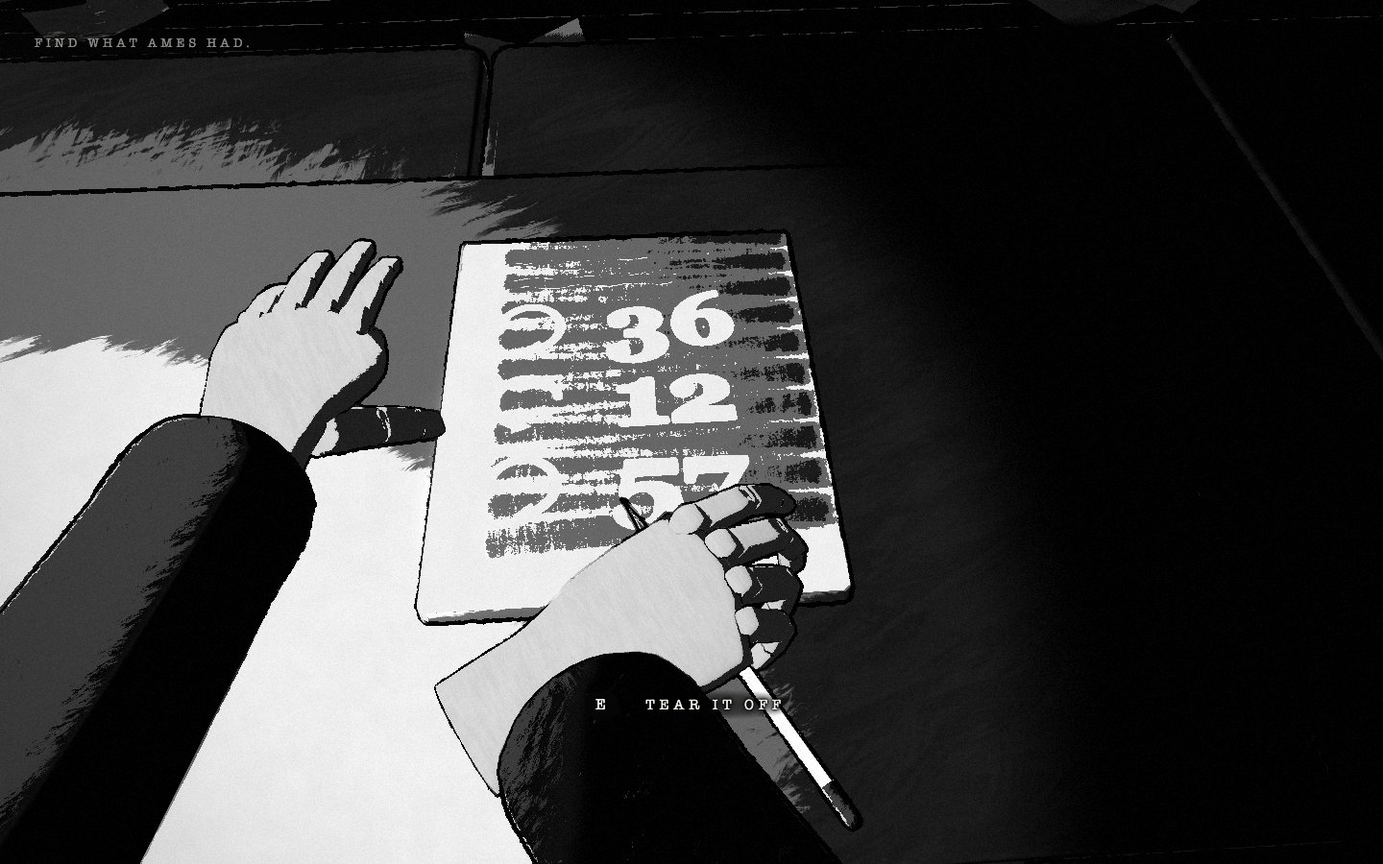
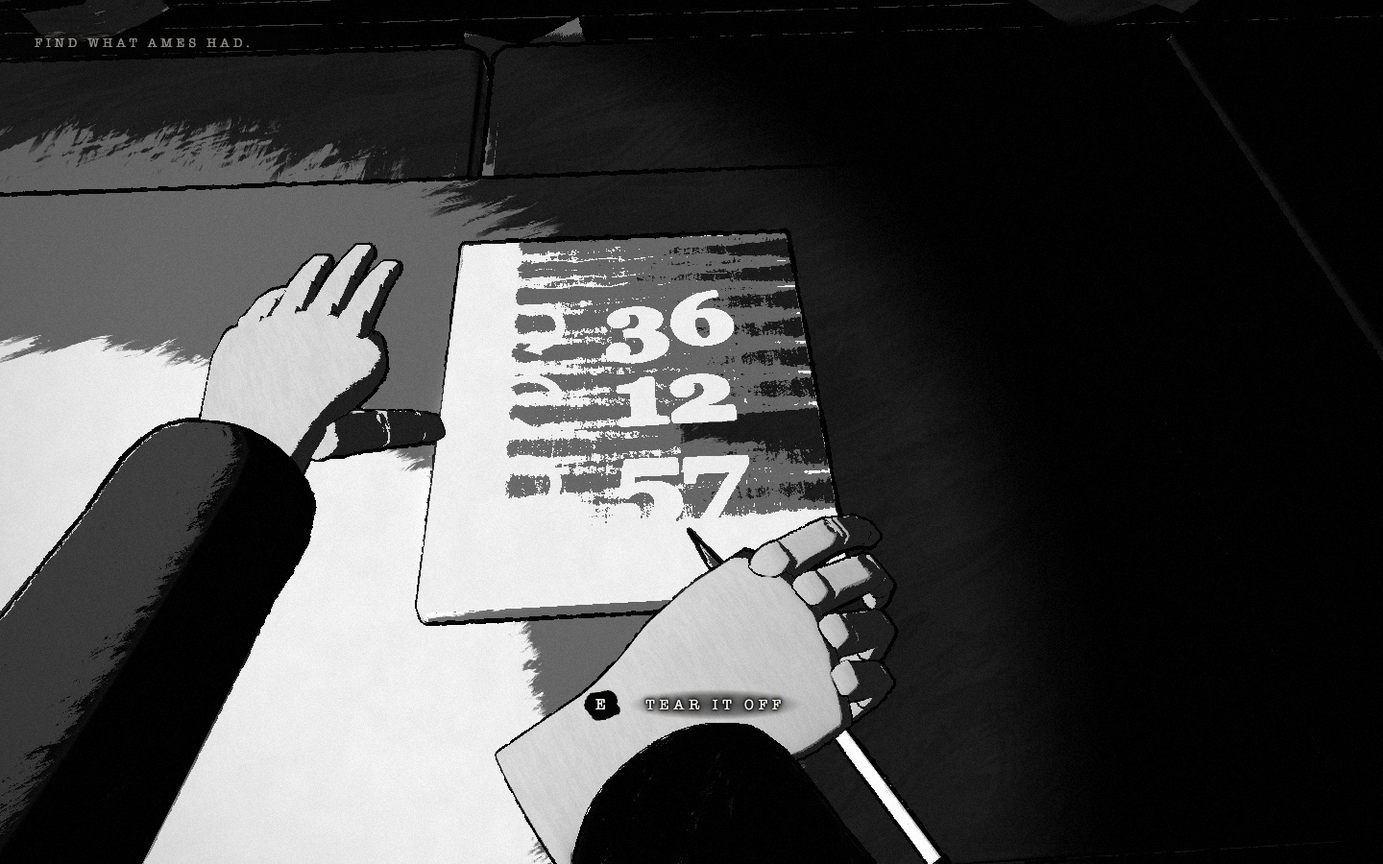
C5 after the critic: the report brought up to date (After the critic: each finding, what was done, the play that shows it; IV's numbers by stance, the flank from two sides, the corridor's grid; the gate on the final code - build, golden 38/38 identical, errors clean on every beat, III's proofs, IV's

diff --git a/docs/story/reports/wave-c/C5.md b/docs/story/reports/wave-c/C5.md
@@ -57,7 +57,7 @@ shivering in its frame**), `room` (through the opening: Ames dead in his
 chair, the receiver off its hook turning on its cord), `check`, `done`
 (`pad`, `safe` are cold-start beats only). Lines: `Room 304. Ames.` /
 `Find what Ames had.` / `Open the safe.` (when the picture swings open) /
-`Piece it together.` / `Pier 9.`. No fail.
+`Lay it out on his desk.` (the envelope taken) / `Piece it together.` (the pieces down) / `Pier 9.`. No fail.
 
 The chain (any order; every link is a thing in the picture, not a prompt):
 1. **The safe is found**: the pictures they got to are down on the floor,
@@ -80,19 +80,19 @@ The chain (any order; every link is a thing in the picture, not a prompt):
    and rub` once; three numbers **big, white and whole** with **drawn curved
    arrows** (clockwise right, the other way left) come up as the sheet is
    shaded; the rest of the sheet shades too. No count ends it: once all
-   three figures' rings are shaded (each 70 %), `E tear it off` - the player
+   three figures' rings are shaded (each 55 %: where they read to the eye), `E tear it off` - the player
    may go on rubbing first. Without the lamp: 'Too dark.'; without the
    pencil: 'Dents in it. Written hard.'
 6. **The dial**: closer, a narrower lens, the figures every five (tens
    large), a white index wedge; the torn sheet held up beside it in the left
-   hand (`review/02, 03`). Right - left - right as built; a wrong turn past
+   hand (`review/02, 03`). A number counts when the reading comes to it (rounds to it), not once it has passed it. With LMB up a moment the pencil hand draws back off the sheet. Right - left - right as built; a wrong turn past
    resets that number only. E the handle.
 7. **The envelope** in the safe: E takes it. On his desk, `lay them out`:
    the pad pushed aside, the lamp eased down, **the torn guest check** in
    seven pieces (lane C4's `drawGuestCheck` with `PIER 9 / MIDNIGHT / — DOT`
    in her pencil; three tears across between the words and the head, one
    down through each of the top bands). Unlit paper (it reads as paper under
-   the lamp), legible while apart (`review/04`). LMB drags, the wheel or RMB
+   the lamp), legible while apart (`review/04`). The kit's cards as they go down: `[LMB] drag a piece`, then `[RMB] hold to turn it`. LMB drags, the wheel or RMB
    turns, a piece within 9 mm and 14 degrees of where it tore from pulls home.
 8. Whole: the stills `check` (`DOT'S HAND.` / `SHE SENT HIM TO THEM.`,
    lane C9's pictures when they come), `check` into the inventory,
@@ -113,14 +113,18 @@ s every 22 s - the room points, it never says (`office_review.json` checks it).
 ### IV The Door (`src/scenes/05_gunfight.js`)
 On the gun kit (seams/GUNS.md): `gunsOf(G).arm('revolver')` and `K.begin` in
 every beat's setup (and in the script when III cuts straight in: `keep`
-runs no setup). Numbers: `maxFiring 2, settleK 1.2, dmgK 0.9`; the flank
-`settleK 1.5` (they come in at my side: the time to turn); the corridor
-`settleK 1.25` (at 1.4 / dmgK 0.8 a player standing in the corridor trading
-shots won it - too easy); `flankAfter 0` (each movement's way round is its
-own). **A retry is a little kinder**: for each fall at the beat (up to two)
-they settle 15 % slower and their rounds weigh 12 % less (`retryEase`); the
-first try is as tuned. Without it the first-timer of WAVE_C §7 lost the
-flank or the corridor three tries of three in half the runs. Beats, each a checkpoint and a save: `shadows`, `flank`, `corridor`,
+runs no setup). **The numbers go by my stance, every step** (`byStance`;
+after the critic): down in cover they are the beat's - the door `settleK
+1.2, dmgK 0.9`, the flank `2.0 / 0.8` (they come at me from two sides: the
+time to turn), the corridor `1.25 / 0.9`, the heavy's rounds `0.55`; on my
+feet, or down with nothing round me (the kit's `lowInOpen`), they are
+`STANDING`: settle `0.85` (the difficulty table's floor) and rounds in full
+(`1.0`). `maxFiring 2`. The door has the kit's flank (`flankAfter 5`, its
+clock started at the kick); the flank and the corridor none. **A retry is a
+little kinder only to a man in cover, and only from the second fall**
+(`retryEase`: from the second fall at the beat, up to two steps, they settle
+15 % slower and their rounds weigh 12 % less while I am down; on my feet,
+none). Beats, each a checkpoint and a save: `shadows`, `flank`, `corridor`,
 `quiet`. Lines: `Someone at the door. Get ready.` -> `Hold the room.` (the
 door in) / `Hold the room.` / `Check the corridor.` (-> `One more. On the
 stair.` as the heavy starts) / `See if more are coming.`
@@ -132,8 +136,11 @@ stair.` as the heavy starts) / `See if more are coming.`
    (`review/05`) - and given back. Then the kit's cards in the quiet
    second: `[LMB] fire` (the revolver's first time in the story), `[C] get
    low`. **The moment**: 7.5 s (5 s on a retry, which skips the take).
-   - *Tip the desk*: from its chair side, `tip the desk over` (E): the heave
-     (my left palm on its edge), it goes over away from me toward the
+   - *Tip the desk*: `tip the desk over` (E) from any side within reach (the
+     take gives the view back on the desk, so the prompt is in the frame at
+     the moment's start); from in front of it or its ends, a quick step round
+     its corner to its end first (0.2 - 0.5 s, the view on the desk); the
+     heave (my left palm on its edge), it goes over away from me toward the
      opening, the lamp thrown off burning on the floor; then C.
    - *Shoot through the glass*: the men are there; rounds go through the
      frosted glass and hit; a shot brings the door in at once.
@@ -142,40 +149,48 @@ stair.` as the heavy starts) / `See if more are coming.`
    - *Do nothing*: at the moment's end the door is kicked in.
    **Movement 1, the door**: the kicker through it (in to the outer office),
    one working it from the south jamb (gun up as it opens), the sidelight's
-   glass knocked out and the third firing through its frame.
+   glass knocked out and the third firing through its frame. It ends when the
+   door is down to one *and that one is not on his way round* (a man the kit
+   sends round - the doorway held by a man standing in the room - comes by
+   305 and the connecting door, and the movement waits for him), or 40 s.
 2. **The flank** (the beat begins when the door is down to one): two men
-   set off from the corridor's south end once the door's last man is down
-   (or 10 s on, if he hangs back - with him alive in the doorway the room
-   has no place covered from both doors, and nearly all the good bot's and
-   the first-timer's falls here were that), through 305, and the connecting
-   door's handle turns (`c5_handle`, the knob goes round, 0.75 s): the
-   first works it from its jamb; the second comes through it 2.5 s behind
-   him (the pair side by side at the jambs lost the good bot its first try;
-   held back until the first was down, the first's body in the doorway kept
-   the second in his way in for good - 150 s of stand-off in play); the
-   kit's warning `The other door! Behind you!`. A retry here keeps the desk as I left it;
+   set off together from the corridor's south end once the door's last man is
+   down (or 10 s on): **one through 305 and the connecting door** (its handle
+   turns, `c5_handle`, the knob goes round, 0.75 s; the kit's warning `The
+   other door! Behind you!`) and into the room to the street window's corner;
+   **one up the corridor and in at the suite's door** to the opening's south
+   jamb (he is in some four seconds before the other). From two sides: a man
+   standing in the room cannot face both; behind the tipped desk the front
+   one is the desk's and the connecting door's is mine to turn to. A retry here keeps the desk as I left it;
    the door's last man (if one was left) is back at the door's jamb, working it
    as the jamb man did - put back where he stood, he could be three metres off
    by the opening with a line on me as the retry began.
 3. **The corridor**: quiet. The lift is called when I step out of the
    suite (or after 16 s): the dial sweeps up, the motor, the car rises into
-   its cage, the bell, the cage folds open - **two men** (a pistol and a
-   Tommy gun: the pin, the drum); when they are down, **a door down the hall
+   its cage, the bell, the cage folds open - **two men** (a pistol, who runs
+   out to the west wall by the stair door, and a Tommy gun at the lift's
+   mouth: the pin, the drum); when they are down, **a door down the hall
    opens**: 306's, one more (working it from his jamb); when he is down, a
    breath (5 s: a reload, a little mending) and **the gate below clanks**: the
    heavy up the stair (`One more. On the stair.`; 165 hp - three of my rounds,
    not five: the first gunfight's; his rounds at `dmgK 0.55` once he starts -
    the kit heavy's bursts at nine a second had a good hand at the cart down
    2.3 s after the first round, and at 0.7 the first-timer met him three
-   tries of three). Never more than two alive at once here,
+   tries of three). Me in the suite when he starts: his way goes on up the
+   corridor and in at the suite's door, and he is 110 (two of my rounds: met
+   at three metres, not seven). Never more than two alive at once here,
    and all of it from the corridor's south end: the cart answers it. (The
    third man came out of the washroom first, behind me: the good hand down at
    the cart was flanked six tries of six.) A stand-off
    (me holding the suite, the last man out there with no line on me for 15
    s - the Tommy gunner pins and never comes) sends him round to the suite's
-   door to find me. Cover: the cart, 305's doorway, the suite's doorway; or
-   hold the outer office (the secretary's desk) - they come in at the door,
-   and one goes round by 305 and the connecting door to the opening.
+   door to find me - any one of them now, one at a time, 20 s apart (not
+   'Flanked.' if he gets me: he came at a door I could see). Cover: the cart,
+   305's doorway, the suite's doorway; or hold the outer office (the
+   secretary's desk) - **they come in at its door: in the corridor beat the
+   connecting door's doorway is shut in the men's grid**, so nobody goes round
+   by 305 to my back. The line follows who is left when the heavy falls. The
+   radiator is on the west wall between 301 and 302 (by the suite's door).
 4. **The quiet**: papers come down, `See if more are coming.`; at the
    street window, facing the blind, the cut into V (lane C6's first beat
    sets itself up at that window: its own E parts the slats). Not `keep`:
@@ -198,6 +213,8 @@ spare it).
 | `gunfight_bad` | stands and trades (one try a movement); then, as a new player (the fail counts cleared), the clumsy first-timer (the desk, late) up to three tries | the first loses most, each with its reason; the second gets through every movement |
 | `gunfight_good_desk` / `_glass` / `_move` | the good player by each first choice at the door, then the flank and the corridor | wins every movement on the first try (run twice each) |
 | `gunfight_end` | the quiet, to the window, facing it | V begins in the same room at the window |
+| `office_fixes` | (after the critic) the pad's hand drawn back with LMB up, the tear-off at 0.55; the dial stopped ON 36 from above; the line naming the desk and the check's two cards; the pencil from the desk's front; the corridor dry | each by real input |
+| `gunfight_moment` | (after the critic) the take gives the view back on the desk: `E tip the desk over` from in front; E steps round and heaves it before the door | the desk a choice in the frame |
 
 The IV driver is lane C2's (`c2_guns.mjs`) copied and turned to the office:
 its beats, the moment's choice (`choice: desk | glass | move`), the corridor's
@@ -213,49 +230,71 @@ cylinder. Each beat is entered as a checkpoint puts me there (`scenes.go`), so a
 movement is its own contest - and its first try is a checkpoint's (the door's
 last man back at the jamb, the room as the checkpoint lays it).
 
-## The gate (final code: 86bb723, built and served with `vite preview` on 5345)
-1. `npm run build` (vite build): clean.
-2. `python3 tools/golden.py check`: **32 of 32 identical** (31 in the full
-   pass; `havoc`'s capture came back empty once - NO CAPTURE, the machine
-   loaded - and was IDENTICAL on its own re-check). No golden frame changed.
-3. `tools/errors.sh` clean (errlog empty, frames rendered) on every beat:
-   office `corridor room pad safe check done`, gunfight `shadows flank
-   corridor quiet`, and `shot=perf`.
-4. The proofs (one headless Chrome at a time; each line its last runs):
-   - III: `office_a` 4/4, `office_b` 4/4, `office_all` 4/4, `office_stuck`
-     4/4 (on 875d3ed; III's code is unchanged since), `office_review` 2/2
-     (the stall hint; final), `office_jank` 4/4 (d7c0745: every door, the
-     doorways as the door is kicked and as the flank comes).
-   - `gunfight_idle` 2/2 (d7c0745): lost each movement, warned first (3.8 /
-     11.1 / 6.7 s before the fall), a reason each (`Shot standing in the
-     open.`, `Flanked.`, `Flanked.`).
-   - `gunfight_good_desk` **2/2 and 2/2 in a row** (every movement won on the
-     first try, final code); `_glass` **2/2** and `_move` **2/2** (d7c0745:
-     the same first tries - the code after it changed retries and the tipped
-     desk's cover places only). Over the day's ~45 good runs the first tries
-     lost: the door once (one glass run, twice over), the flank about 1 in 5
-     before its last changes (none in the 8 good runs on the final flank), the corridor
-     about 1 in 10 (the heavy three times, the Tommy gun once - the last on
-     d7c0745's first desk run, which is why the desk was run twice more).
+## After the critic (docs/story/reports/wave-c/C5_CRITIC.md)
+Each finding, what was done, and the play that shows it (all by real input;
+on `wave-c/C5-office` after merging `wave-c/integration` at 80f997f).
+
+| finding | done | shown by |
+| --- | --- | --- |
+| **blocker** - standing and trading wins the door (on the eased retry) and the flank | (1) `retryEase` only from the **second** fall and only while I am **down in cover** (on my feet: none). (2) **The numbers by stance** every step (`byStance`): down in cover the beat's grace (1.2 / 2.0 / 1.25); on my feet or bare, `STANDING` 0.85 / 1.0. (3) The door's movement **waits for a man the kit sent round** (counted as gone, he left the stander one gun to beat); **305's corridor door stands open from IV's start** (a man sent round walks his way's points, and the shut door between two of them stopped him for good). (4) **The flank from two sides**: one by 305 and the connecting door, one up the corridor and in at the suite's door (both through one doorway, they came out one at a time into his sights). (5) The lift's pistol runs to the stair door's side, out of the Tommy gunner's line (in front of him the Tommy held his fire) | `gunfight_bad` and samples below: the stander now loses the door every try (6 of 6 on the final door), the corridor 5 of 7, the flank 4 of 8 - see Left |
+| major - the corridor held from the suite lost 7 of 7: men round by 305 at my back | the cause was not the route the men chose: **the cart and the radiator closed the corridor in the men's grid**, so every man from the lift's end came round by 305 and the connecting door. The radiator moved up the west wall (between 301 and 302); in the corridor beat **the connecting door's doorway is shut in the men's grid** (they come in at the suite's door); **the heavy comes in at the suite's door as a way in** when I hold the suite (by the grid he cut the doorway's corner and stood at the jamb for good) and is two rounds there (110) | `iv_corr_in` / `iv_good_desk` / `iv_good_glass` (critic's plays): nobody by 305 any more - they come in at the suite's door. From the suite the good hand won 2 of 6 tries (lost to the heavy at three metres three times - before he was 110 - and once to a man who went on through the outer office into Ames's room); the clumsy hand 2 of 4. Out at the cart the good hand won every corridor on the final code. See Left |
+| major - the Tommy gunner 80 s in the lift car; the line lies after the heavy | the stand-off breaker for **any one** man with no line for 15 s (one at a time, 20 s apart), not the last only; the heavy's line is `One more. On the stair.` only when he is the last (`And the stair.` else); when he falls with men up, the line says who is left (`Check the corridor.` / `One more. The Tommy gun.` / `One more.`). A man the breaker sends to a door I can see is not a flanker (a fall to him is not `Flanked.`) | `iv_corr_in` snaps: the Tommy gunner out of the car within ~20 s |
+| major - the check: no teach card | `[LMB] drag a piece` then `[RMB] hold to turn it` (the kit's cards) as the pieces go down; the idle hint names RMB | `office_fixes` (frame `review/04`) |
+| major - IV's moment shows one of three ways | the take gives the view back **turned onto his desk** (lamp's pool, `E tip the desk over` in the frame), the cards `[LMB] fire`, `[C] get low` with it; the prompt from any side within reach, E from in front steps me round its corner and heaves it | `gunfight_moment` (frame `review/06`) |
+| major - with the desk tipped the door is free | the kit's flank at the door (`flankAfter 5`, its clock started at the kick): a man held down behind one place has one go round, said (`One's going round`) | `gunfight_good_desk`: the door now costs the desk 15 - 45 hp (it was 100 untouched); the clumsy hand 15 - 30 |
+| major - rain inside the building | the shaders read four dry volumes and the stage pushed eight: the corridor, washroom, landing and lift fell off. Three boxes now (the floor's rooms and corridor as one, the washroom, the landing with the lift shaft) | `office_fixes` (the corridor's first frame, dry) |
+| minor - the pad: hand over the figures; readable lags the eye | the hand draws back toward me and right after 0.35 s of LMB up; readable at 0.55 of each figure's ring (they read at 0.56 - 0.67) | `office_fixes` (`review/02`: readable at rings 0.83 / 0.81 / 0.56) |
+| minor - the dial: on the number is not on it | a number counts when the reading comes to it (rounds to it) | `office_fixes` (36.25 from above: the gate) |
+| minor - the desk's interactions fight | the pencil's reach 2.3 m (from the desk's front it was out of reach: the ashtray won); Ames's cone wider. (The pad's narrower cone was tried and taken back: from right over the desk it lost the pad) | `office_fixes` (the pencil from (3.18, 4.64)) |
+| minor - 'Piece it together.' names no place | `Lay it out on his desk.` from the envelope; `Piece it together.` once the pieces are down | `office_fixes` |
+| cheat - `retryEase` after one fall | from the second fall, and only to a man in cover | above |
+| cheat (noted) - movement 1 ends at 40 s | kept (nothing is won: the men stay and the flank is added); now it also waits for a man on his way round | - |
+| cheat (noted) - the kit's `spareLast` | the kit's (lane C1), not this lane's | - |
+| cheat (noted) - the stand-off breaker | kept, widened to any one man, and not called a flank | above |
+
+## The gate (final code, served from `vite build` + `vite preview` on 5345 at the end: the dev server's two hours ran out)
+1. `npm run build`: clean.
+2. `python3 tools/golden.py check`: **passed, 38 of 38 identical** (the 32 and C9's
+   six stills; run at fb41fc7 - the changes after it are IV's numbers and III's two
+   interaction cones, in no golden frame).
+3. `tools/errors.sh` clean (errlog empty, frames rendered) on every beat: office
+   `corridor room pad safe check done`, gunfight `shadows flank corridor quiet`
+   (again on the final code), and `shot=perf`.
+4. The proofs, final code unless said:
+   - III: `office_a` 4/4, `office_b` 4/4, `office_all` 4/4, `office_stuck` 4/4
+     (the driver's half rub now stops at 0.2: at 0.55 its old 0.3 stop tore the
+     sheet off), `office_review` 2/2, `office_fixes` 12/12.
+   - IV `gunfight_idle` 2/2: lost every movement, warned 6.5 / 5.1 / 4.0 s first,
+     `Shot standing in the open.` / `Flanked.` / `Flanked.`.
+   - `gunfight_good_desk` 2/2, `_glass` 2/2, `_move` 2/2: every movement won on
+     the first try (final code). On the final door the glass lost one first try
+     of three runs (`They had your angle.`, then won); the move lost every door
+     try until the door's flank clock was started at the kick (fixed: 2 of 2
+     since). The flank on its final shape: 6 of 6 first tries; the corridor
+     from the cart: 6 of 6.
    - `gunfight_bad`: **the clumsy first-timer got through every movement within
-     three tries in 3 runs of 3** (flank on the first try 3/3, corridor first
-     try 2/3 and third try once). **The stand-and-trade player's own check
-     (`lost >= 2` of 3) passed 1 run of 3**: he dies at the door every time,
-     at the corridor 1 of 3 here (about half over the day), and survives the
-     flank (3 of 3) - see Left.
-   - `gunfight_end` 4/4 (V begins at the window, same room).
-   - Shared: `kit_downs` 11/11 (final), `kit_lines` 14/15 - the one fail is
-     VI's `Make him talk.` (lane C3's tail; it failed the same way before my
-     changes), `guns_good` 2/2 (lane C2's; the gunman change, dd80453 - the
-     brain is unchanged since).
-5. The jank walk: `office_jank` above (and every door's E in `office_all`).
+     three tries** (door 1st, flank 1st, corridor 2nd). **The stander's own
+     check (`lost >= 2`) failed on the final run**: he lost the door, won the
+     flank (66 hp) and the corridor (32 hp). Samples on the final numbers
+     (one try each): door lost 6 of 6; flank lost 4 of 8; corridor lost 5 of 7.
+     See Left.
+   - `gunfight_end` 4/4, `gunfight_moment` 4/4, `office_jank` 4/4 (every
+     door, the doorways as the door is kicked and as the flank comes).
+   - Shared: `kit_downs` 11/11; `kit_lines` 14/15 - the one fail is VI's `Make
+     him talk.` (lane C3's tail), as before.
+5. The jank walk: `office_jank` above.
 6. FPS, uncapped, 1440 x 900, one pair back to back: IV's door
-   (`scene=gunfight&beat=shadows&anim=1&t=1`) **85.6 fps** (393 calls, 0.38 M
-   tris) against `shot=perf` **43.0 fps** (728 calls, 2.8 M tris): **1.99x**.
-   The GPU was 76-86 % busy from another process before both runs (flagged
-   BUSY): the ratio holds, the absolute numbers do not.
+   (`scene=gunfight&beat=shadows&anim=1&t=1`) **144.4 fps** (343 calls, 0.35 M
+   tris) against `shot=perf` **53.4 fps** (730 calls, 2.85 M tris): **2.70x**.
+   The GPU was 79 % / 32 % busy from another process before the runs: the ratio
+   holds, the absolute numbers do not.
 
 ## Shared files changed (each marked `// [C5]`)
+After the critic: **none** - only this lane's scenes (`04_office.js`,
+`05_gunfight.js`, `office/*`), its stage (`stages/office/parts/room.js`: the dry
+volumes; `build/suite.js`: the radiator's place), its drivers
+(`tools/lib/c5_office.mjs`: the half rub) and its plays (`office_fixes.json`,
+`gunfight_moment.json`, new). The first pass's:
 - `src/enemies/brains/gunman.js` (lane C2's): the heavy's walk at me. With
   no line on me he walked to the grid cell nearest a point 1.6 m off me on
   his own side of a wall or a desk - and stood there for good (a corridor
@@ -285,9 +324,13 @@ last man back at the jamb, the room as the checkpoint lays it).
   rooms, the API above (`parts/room.js` header), beats `corridor room pad
   safe check done` (III) and `shadows flank corridor quiet` (IV), saves.
   IV's tuning lives at the top of `scenes/05_gunfight.js`: `NUM`,
-  `NUM_FLANK`, `NUM_CORR`, `HEAVY_DMGK`, `FLANK_WAIT`, `retryEase`.
-- **C1 / C2 (the kits)**: `retryEase` (a retry a little kinder) is this
-  chapter's own; one rule for every contest would belong to the kit. A man
+  `NUM_FLANK`, `NUM_CORR`, `STANDING`, `DOOR_FLANK`, `HEAVY_DMGK`, `FLANK_WAIT`,
+  `retryEase`, `byStance`. The office stage pushes three dry volumes (the shaders read four).
+- **C1 / C2 (the kits)**: `retryEase` (from the second fall, only in cover) and
+  `byStance` (the numbers by my stance, read by the kit each step) are this
+  chapter's own; one rule for every contest would belong to the kit. The
+  shaders take four dry volumes (`uDryMin[4]`): a stage that pushes more
+  rains in the rest. A man
   in his way in (`entry`) whose doorway is blocked by a body waits for good
   (no stand-off breaker reaches him) - the flank avoids it by its timing.
   `failCounts` carries across players in a play: `gunfight_bad.json` clears
@@ -298,62 +341,76 @@ last man back at the jamb, the room as the checkpoint lays it).
   `phone { on(), off() }`, `updateFrost()`, `reset()`.
 
 ## Left (most felt first)
-- **The brief's `gunfight_bad` says the player who stands and trades "dies in
-  each movement"; mine does not die in the flank.** He dies at the door every
-  time and at the corridor about half the time, but the flank's two come
-  through a door he is facing, one 2.5 s behind the other, and he wins it
-  (3 of 3 final runs; `gunfight_bad`'s own `lost >= 2` check passed 1 run of
-  3). The lever is the flank's `settleK` (1.5 now; at 1.2 with the pair side
-  by side at the jambs standing died there, and so did the good hand, one
-  first try in four). Not tuned further: the good and the clumsy hands are
-  the proofs WAVE_C §7 names.
+- **The stander still wins some flanks and corridors** (the critic's blocker,
+  partly met). On the final numbers a player who stands where he is put and
+  trades (`iv_bad`'s profile: fast, accurate) loses the door every try (6 of
+  6), the corridor 5 of 7 and the flank only 4 of 8; `gunfight_bad`'s own
+  check (`lost >= 2` of 3) failed its final run (he won the flank at 66 hp and
+  the corridor at 32). What is left of his edge is the duel: two men from two
+  sides arrive about four seconds apart (the front one first), and an
+  accurate hand takes them one at a time. Sent in at once from both sides
+  (`late: 4.4` on the front man), he lost 3 of 3 - and so did the good hand
+  (3 of 4) and the first-timer (3 of 3): a man down behind the desk cannot
+  cover two sides. The levers, in `scenes/05_gunfight.js`: the front
+  flanker's `late` (0 now; 2.4 split the difference badly in one sample),
+  `STANDING` (0.85 / 1.0 - the settle is at the difficulty table's floor; the
+  rounds could go to 1.2), and the stander's corridor (the lift's two). Not
+  pushed further: the good and the clumsy hands are the proofs WAVE_C §7
+  names, and both pass.
+- **The corridor held from the suite is now a real fight, not a won one**:
+  they come in at its door (nobody by 305), but the good hand still won only
+  2 of 6 from behind the secretary's desk (the heavy at three metres - now
+  two rounds, 110 - and once a man who went on through the outer office into
+  Ames's room and had my back). The cart wins it every time. If play says the
+  suite is too hard: the heavy's rounds there (0.55) or the breaker's 15 s.
 - **The flank no longer always comes "while I am busy with the door"** (the
-  brief): its two set off once the door's last man is down, or 10 s on if he
-  hangs back (`FLANK_WAIT`). With him alive in the doorway the room had no
-  place covered from both doors, and that was nearly all the falls there. A
-  player who leaves him up still gets the handle turning at his back; one who
-  drops him gets a breath first. Lower `FLANK_WAIT` for more overlap.
-- **The corridor's heavy is still its danger**: the good bot lost the
-  corridor's first try about 1 in 10, mostly to him (165 hp: three of my
-  rounds; his rounds at 0.55 of the kit heavy's). If it is too hard in play:
-  110 hp (two rounds).
-- **A retry is kinder** (`retryEase`: 15 % slower to settle and 12 % lighter
-  rounds per fall at the beat, up to two). It is this chapter's; the kit
-  (lane C1/C2) may want one rule for every contest, or none.
+  brief): its two set off once the door's last man is down, or 10 s on
+  (`FLANK_WAIT`). One of them comes in at the suite's front door, not through
+  305 (the brief's "two men that way"): from two sides, as WAVE_C §2 asks
+  ("men come from more than one side"), and so the standing player cannot
+  face both.
+- **E on the desk from in front steps me round it** (0.2 - 0.5 s of eased
+  movement, the controls frozen): a context move the player asked for with E,
+  not one the game does by itself. If it reads as the game moving me, the
+  other way is the prompt only from its chair side and the take ending on it.
+- **The door with the desk is no longer free, but it is not always costly**:
+  the kit's flank at 5 s from the kick took 15 - 45 hp from the good hand in
+  most runs and none in some (when the three are down before anyone goes
+  round).
 - **The revolver's pocket is not counted** (the brief: "six in the cylinder and
   what is in my pocket, enough if I aim, not enough to spray"): R reloads from
   an endless pocket. A count belongs to the revolver and the HUD (shared:
   `player/weapons/revolver.js`, lane C2 / B3) and VI's "empty after the
   tail" needs the same thing - one owner should add it for the whole game.
-- **The heavy's rush fix is in lane C2's brain** (above): the critic should
-  look at `guns_good`'s rush beat (the gate re-ran it).
-- **The street's up-light** (the slats on the ceiling, round 2's) still
-  lights the window's head reveal as a soft blob when looking straight at the
-  window from the room's middle; the fan's blades and the blind's rail no
-  longer glow (a near-black `underLit` material). Not new with this lane's
-  rooms, but now seen more (the opening looks straight at the window).
+- **The heavy's rush fix is in lane C2's brain** (wave C's first pass): the
+  critic should look at `guns_good`'s rush beat.
+- **The kit's rusher cuts a doorway's corner by the grid** (it is broader than
+  the grid's 0.3 m): he stood at the suite door's jamb for good when he came
+  at me by the grid. IV routes him in at the door as a way in instead; the kit
+  (lane C2) may want the grid inflated by the man's size.
 - **Retries drop the dead of earlier movements** (the kit's default fail
   takes the stage's Hoods); a retry of the flank or the corridor starts with
-  the floor clean. A `keepWorld` with re-laid bodies would be truer. (Held
-  back behind the first, the flank's second man was kept in his way in for
-  good by the first's body in the doorway: a stand-off with no breaker for a
-  man still on his way in - the kit's entry could step over or round a body.)
+  the floor clean. A `keepWorld` with re-laid bodies would be truer.
+- **The street's up-light** still lights the window's head reveal as a soft
+  blob from the room's middle (round 2's; seen more now).
 - `kit_lines` fails one step that is not mine: VI's `Make him talk.` (lane
   C3's tail), the same before and after my changes.
 - **III's interior views** (the pad, the dial, the check) are as built in
   wave B for the hands; the check's hands are the puzzle's cursor only.
 - The washroom's light starts off; the landing's gate is a grille the heavy
   opens (the men have the key); the lift's call button only rings.
-- The outer office's secretary's chair closes the passage behind her desk
-  (the north-east corner is a dead corner; the cooler was moved to the bench).
-- Ames's chair blocks the gap between the desk and the radiator: the street
-  window is reached from the desk's north end.
+- The outer office's secretary's chair closes the passage behind her desk;
+  Ames's chair blocks the gap between the desk and the street window's wall
+  (the window is reached from the desk's north end).
 - No music change: IV keeps `{ stop: 2.5 }` (silence), III `office`.
 
 ## Review frames (`docs/story/review/wave-c/C5/`, 1440 x 900)
 `01_ames_dead` (through the opening: him in the slats' light), `02_pad_shaded`
-(the figures and the arrows up, `E tear it off`), `03_dial_sheet` (the dial's
-figures, the index, the sheet held beside it), `04_torn_check` (the pieces
-apart under the eased lamp: PIE / R 9 / MIDNI / — DOT legible), `05_take_shadows`
-(the take: three shapes on the frosted door and the sidelight across the outer
-office), `06_corridor_lift` (the cage open, the two out of the lift).
+(after the critic: the figures read at 0.55 of each ring, `E tear it off`, the
+pencil hand drawn back), `03_dial_sheet` (after the critic: the index stopped on
+36 from above - the gate - the sheet held beside it), `04_torn_check` (after
+the critic: the pieces apart, `[RMB] hold to turn it` - the second card - and
+`Piece it together.`), `05_take_shadows` (the take: three shapes on the
+frosted door and the sidelight across the outer office), `06_moment_desk`
+(after the critic: the take's end on his desk - `E tip the desk over` and
+`[LMB] fire` in the frame). The critic's two frames are in `critic/`.
